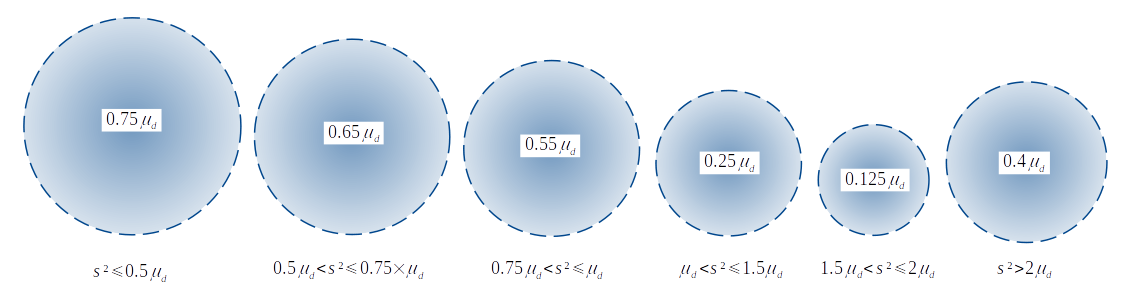
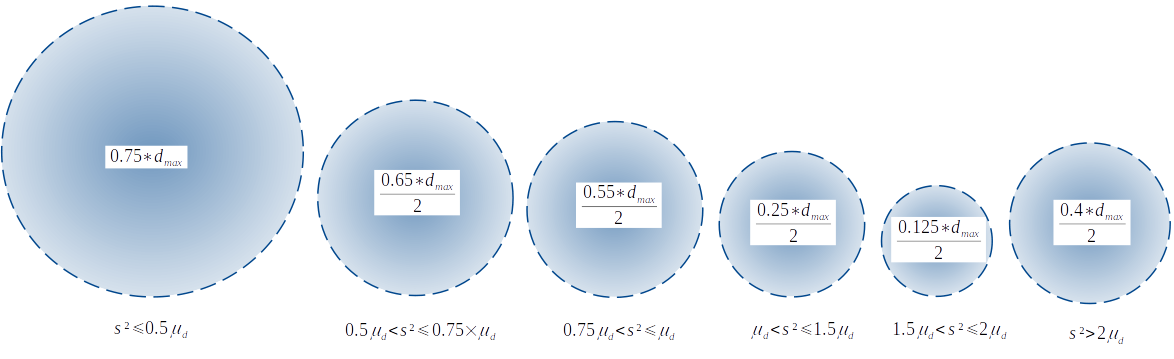
debugging and improving explanations

diff --git a/src/intyearpolator.py b/src/intyearpolator.py
@@ -45,7 +45,6 @@ pm_argparse.add_argument( '--id', type=str, default='EGID', help='ID column name
 # read argument and parameters 
 pm_args = pm_argparse.parse_args()
 
-# function to measure distance
 def dist(x1, y1, x2, y2):
     
     if x1 == x2:
@@ -60,8 +59,35 @@ def dist(x1, y1, x2, y2):
     
         return math.sqrt((x1 - x2)**2 + (y1 - y2)**2)
 
+def searching_radius(var, mean):
+    
+    if var <= 0.5 * mean:
+        
+        return (dist(regbl[pm_args.long].min(), regbl[pm_args.lat].min(), regbl[pm_args.long].max(), regbl[pm_args.lat].max())) * 0.75
+    
+    elif var > 0.5 * mean and var <= 0.75 * mean:
+        
+        return ((dist(regbl[pm_args.long].min(), regbl[pm_args.lat].min(), regbl[pm_args.long].max(), regbl[pm_args.lat].max())) * 0.5) * 0.65
+    
+    elif var > 0.75 * mean and var <= 1 * mean:
+        
+        return ((dist(regbl[pm_args.long].min(), regbl[pm_args.lat].min(), regbl[pm_args.long].max(), regbl[pm_args.lat].max())) * 0.5) * 0.55
+    
+    elif var > 1 * mean and var <= 1.5 * mean:
+        
+        return ((dist(regbl[pm_args.long].min(), regbl[pm_args.lat].min(), regbl[pm_args.long].max(), regbl[pm_args.lat].max())) * 0.5) * 0.25
+    
+    elif var > 1.5 * mean and var <= 2.0 * mean:
+        
+        return ((dist(regbl[pm_args.long].min(), regbl[pm_args.lat].min(), regbl[pm_args.long].max(), regbl[pm_args.lat].max())) * 0.5) * 0.125
+    
+    else :
+    
+        return ((dist(regbl[pm_args.long].min(), regbl[pm_args.lat].min(), regbl[pm_args.long].max(), regbl[pm_args.lat].max())) * 0.5) * 0.4
+
 # import dataset
 regbl = pd.read_table(pm_args.input, low_memory=False)
+regbl = regbl.dropna(subset = [pm_args.lat, pm_args.long])
 
 regbl['year'] = regbl[pm_args.ranvar].astype(float)
 
@@ -103,32 +129,6 @@ for i in range(len(pred_pts)):
 
 # Create searching radius based on variance
 print("Creating posterior searching radius based on variance ... \n" )
-def searching_radius(var, mean):
-    
-    if var <= 0.5 * mean:
-        
-        return (dist(regbl[pm_args.long].min(), regbl[pm_args.lat].min(), regbl[pm_args.long].max(), regbl[pm_args.lat].max())) * 0.75
-    
-    elif var > 0.5 * mean and var <= 0.75 * mean:
-        
-        return ((dist(regbl[pm_args.long].min(), regbl[pm_args.lat].min(), regbl[pm_args.long].max(), regbl[pm_args.lat].max())) * 0.5) * 0.65
-    
-    elif var > 0.75 * mean and var <= 1 * mean:
-        
-        return ((dist(regbl[pm_args.long].min(), regbl[pm_args.lat].min(), regbl[pm_args.long].max(), regbl[pm_args.lat].max())) * 0.5) * 0.55
-    
-    elif var > 1 * mean and var <= 1.5 * mean:
-        
-        return ((dist(regbl[pm_args.long].min(), regbl[pm_args.lat].min(), regbl[pm_args.long].max(), regbl[pm_args.lat].max())) * 0.5) * 0.25
-    
-    elif var > 1.5 * mean and var <= 2.0 * mean:
-        
-        return ((dist(regbl[pm_args.long].min(), regbl[pm_args.lat].min(), regbl[pm_args.long].max(), regbl[pm_args.lat].max())) * 0.5) * 0.125
-    
-    else :
-    
-        return ((dist(regbl[pm_args.long].min(), regbl[pm_args.lat].min(), regbl[pm_args.long].max(), regbl[pm_args.lat].max())) * 0.5) * 0.4
-
 sr_posterior = []
 for i in range(len(pred_pts)):
     sr = searching_radius(prior_var[i], prior_mean[i])
@@ -157,6 +157,13 @@ for i in range(len(pred_pts)):
     mean_posterior.append(mean)
     var_posterior.append(var)
 
+# if posterior mean could not have been computed, use prior mean
+for i in range(len(mean_posterior)):
+    if mean_posterior[i] > 0:
+        mean_posterior[i] = mean_posterior[i]
+    else:
+        mean_posterior[i] = prior_mean[i]
+        
 # join predictions
 predicted_year = list(mean_posterior)
 prediction_variance = list(var_posterior)

diff --git a/README.md b/README.md
@@ -21,11 +21,13 @@ The following links give access to official documentations on the considered dat
 # intYEARpolator
 This predictor was especially designed for infering the year of construction of buildings in Switzerland. Although this is supplementary to an object detection based algorithm working on the presence (or absence) of houses in swisstopo maps in comparison to RegBL (GWR) database. Therefere, this model is only extrapolating regbl-poc predictions to years beyond the oldest map available in some area. This is an add-on and should not replace the results from the main detector. Although you may find it interesting for testing, as its predictions are made for all null (*NaN*) values. Despite it's been designed for spatially interpolating the year of construction of houses, it may also be interesting in cases where the urban pattern structure could be relevant.
 
-IntYEARpolator is a spatial statistcs model which main characteristics are to query for neighbour's data based on different searching radius and the use of a gaussian mixture model for clustering in estimations. First of all, a general searching radius is defined as half of the largest distance (between random variables). For every prediction location, the variance between all data in the 'prior' searching radius will be used to create a 'posterior' searching radius. This way, the higher the variance, the smaller the searching radius, as we tend to trust data less. The exception to this rule is for variances that are higher than 2 x the mean distance between points. In this case, the searching radius increases again in order to avoid clusters of very old houses that during tests caused understimation. The figure below demonstrates the logic behing the creation of buffers.
+IntYEARpolator is a spatial statistics model which main characteristics are to query for neighbour's data based on different searching radiuses and the use of a gaussian mixture model for clustering data to be used for final predictions. First of all, a prior searching radius is defined as half of the largest distance (between random variables). For every prediction location, the variance between all data in the prior searching radius will be used to create a posterior searching radius. This way, the higher the variance, the smaller the searching radius, as we tend to trust data less. The exception to this rule is for variances that are higher than 2 x the mean distance between points. In this case, the searching radius increases again in order to avoid clusters of very old houses that during tests caused underestimation. The figure below demonstrates the logic behing the creation of searching radiuses.
 
 ![](doc/image/f1.png)
 
-being *d* the distance between points, μ the mean and *s²* the sample variance. 
+being *d* the distance between points, μ the mean and *s²* the variance of randon variable values within the prior searching radius. 
+
+It is important to mention that in case of very large number of missing data, if the searching radius does not find enough information, the posterior mean will be the same as the prior mean, possibly causing over/underestimation in those areas.
 
 This first procedure is used to fill the gaps in the entry database. This completion is only done in the random variable column and not on the coordinates on. This is done so clustering can be computed. The unsupervised learning tool used is a gaussian mixture model, which does not only segments data into clusters, but as it is a probabilistic model, it will indicate the probability of each point belonging to every cluster. The number of components computed is a linear function to the total number of points being used, inclusing the ones that previously had gaps. The function to find the number of component is the following:
 
